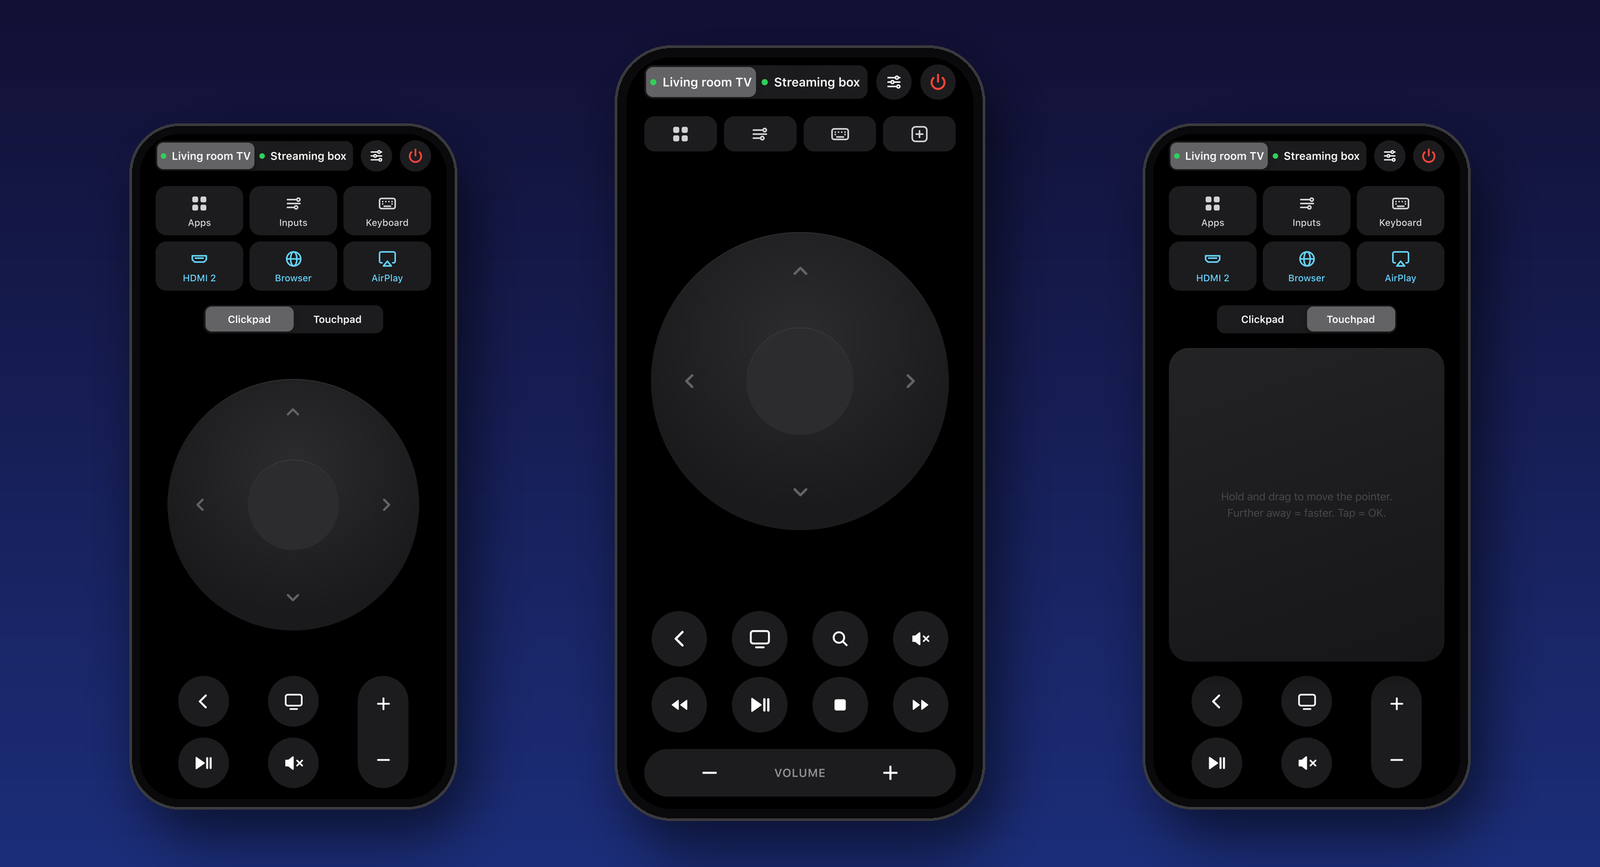
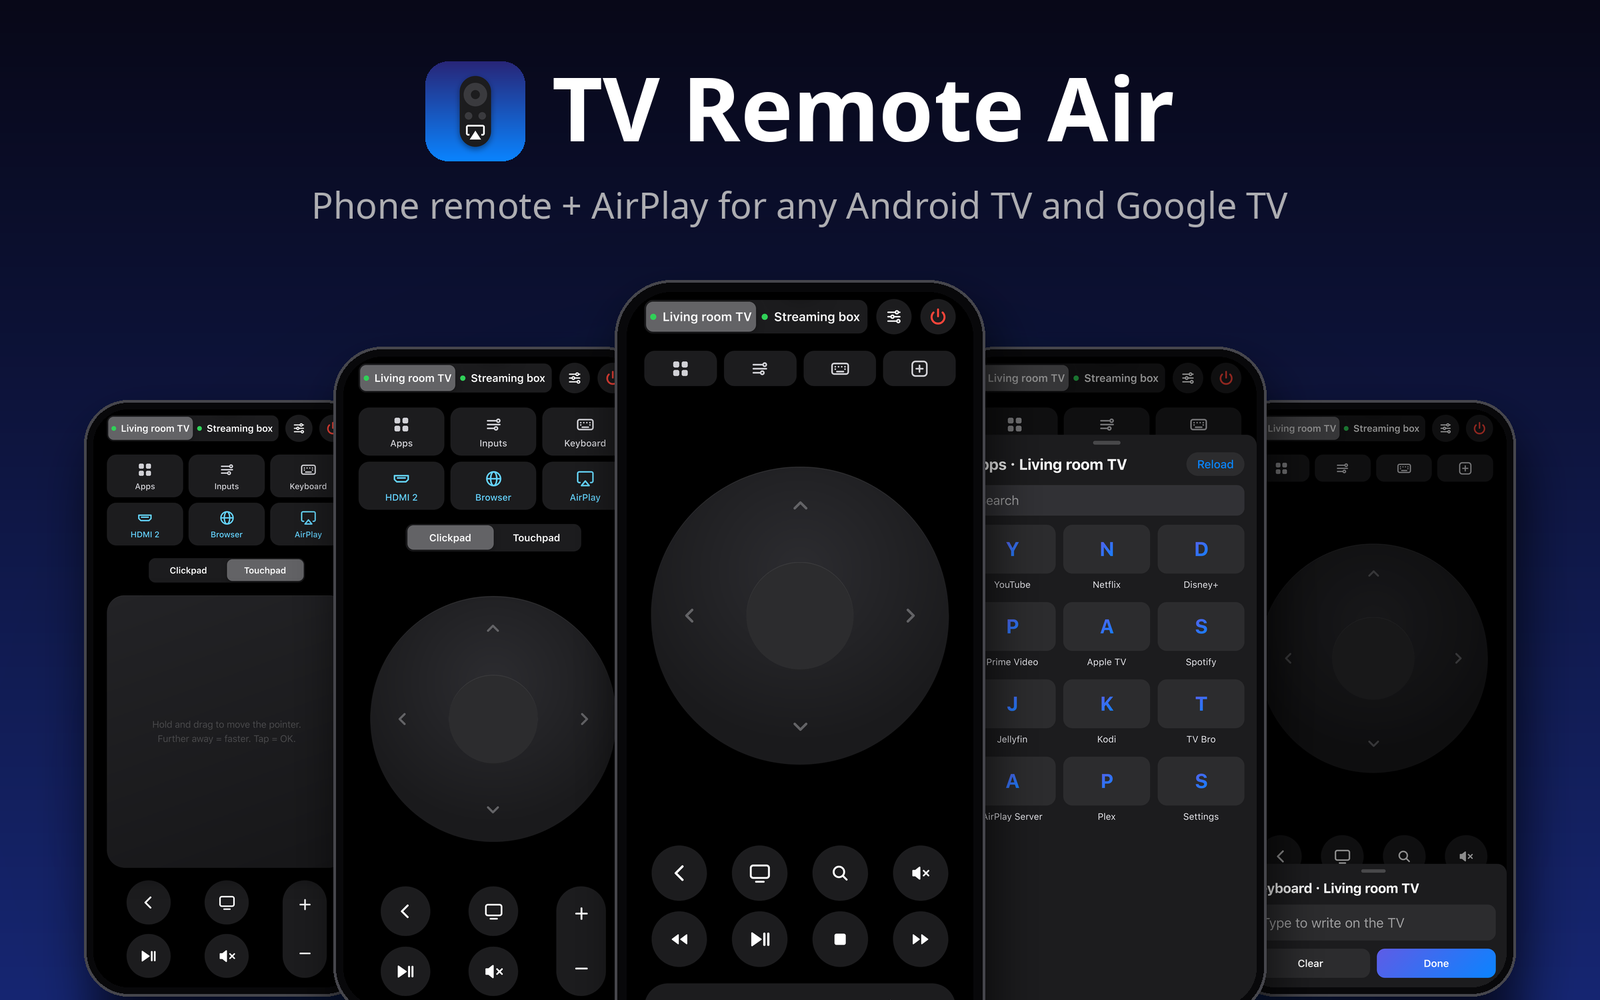
Nicer header image and README top

diff --git a/README.md b/README.md
@@ -1,6 +1,6 @@
 <div align="center">
 
-# TV Remote Air
+<img src="docs/images/hero.png" alt="TV Remote Air on five phones: touchpad, classic layout, Apple TV layout, app list and keyboard" width="100%">
 
 ### Your phone becomes the remote. Your iPhone gets AirPlay. On any Android TV or Google TV.
 
@@ -9,8 +9,6 @@ Claude Code, Codex or any AI with a terminal does the setup. You just answer a f
 [![License](https://img.shields.io/badge/license-MIT-black)](LICENSE)
 [![Works with](https://img.shields.io/badge/works_with-Android_TV_%7C_Google_TV-3DDC84?logo=androidtv&logoColor=white)](#help)
 [![Deutsch](https://img.shields.io/badge/Sprache-Deutsch-lightgrey)](README.de.md)
-
-<img src="docs/images/hero.png" alt="TV Remote Air on three phones: classic layout, Apple TV layout and touchpad" width="100%">
 
 </div>
 

diff --git a/README.de.md b/README.de.md
@@ -1,6 +1,6 @@
 <div align="center">
 
-# TV Remote Air
+<img src="docs/images/hero.png" alt="TV Remote Air auf fünf Handys: Touchpad, klassisch, wie Apple TV, App-Liste und Tastatur" width="100%">
 
 ### Dein Handy wird zur Fernbedienung. Dein iPhone bekommt AirPlay. Auf jedem Android TV und Google TV.
 
@@ -9,8 +9,6 @@ Claude Code, Codex oder jede KI mit Terminal richtet alles ein. Du beantwortest 
 [![Lizenz](https://img.shields.io/badge/Lizenz-MIT-black)](LICENSE)
 [![Für](https://img.shields.io/badge/f%C3%BCr-Android_TV_%7C_Google_TV-3DDC84?logo=androidtv&logoColor=white)](#hilfe)
 [![English](https://img.shields.io/badge/language-English-lightgrey)](README.md)
-
-<img src="docs/images/hero.png" alt="TV Remote Air auf drei Handys: klassisch, wie Apple TV und Touchpad" width="100%">
 
 </div>
 
